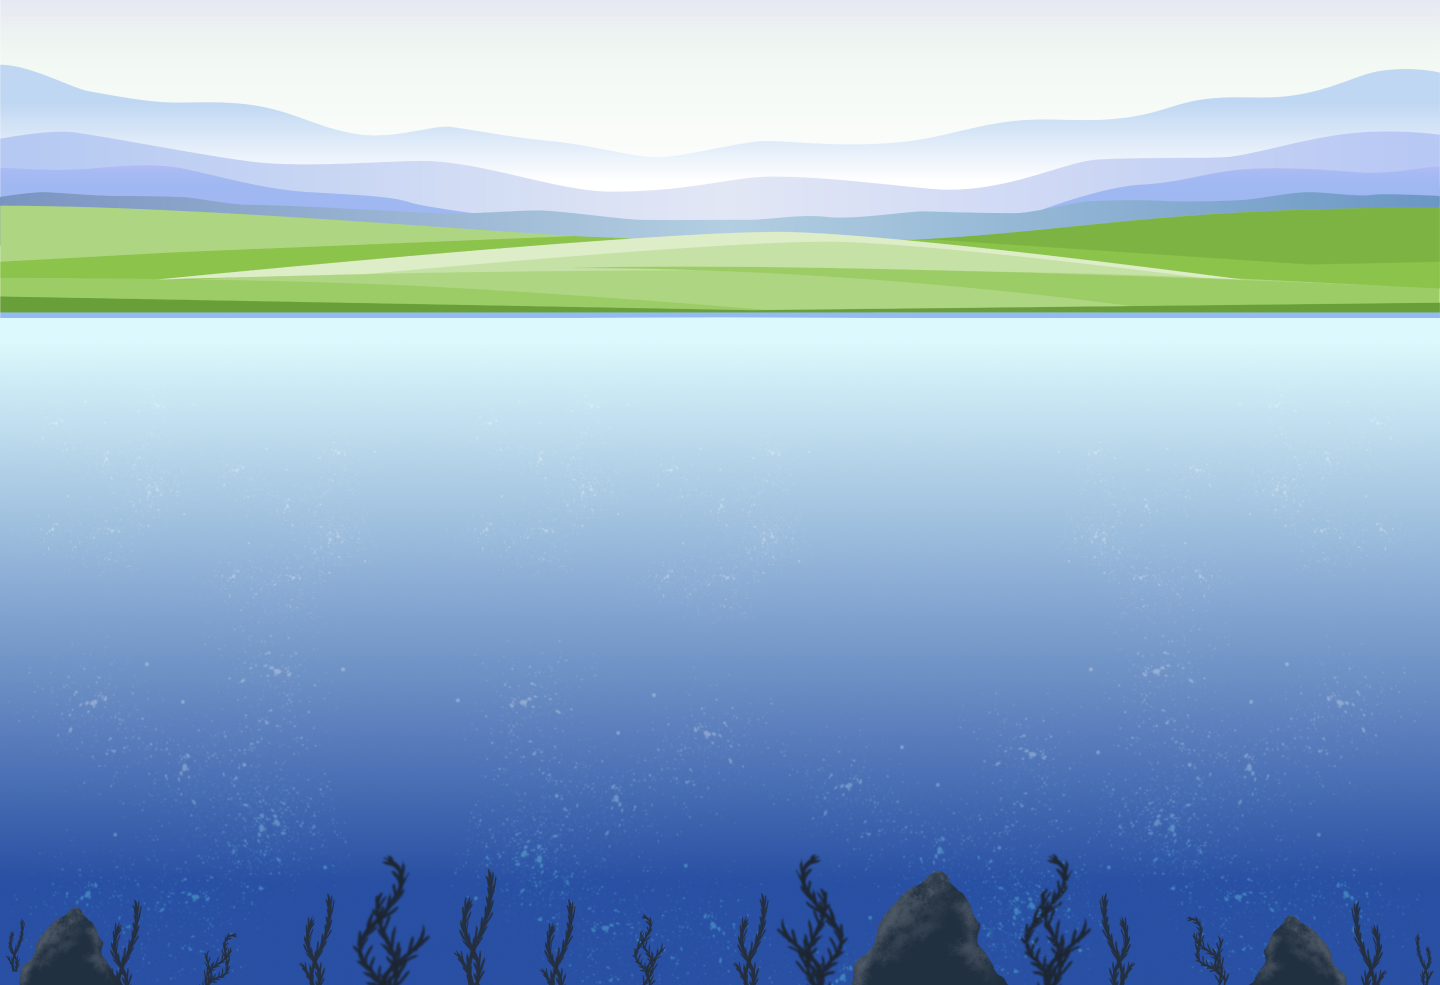
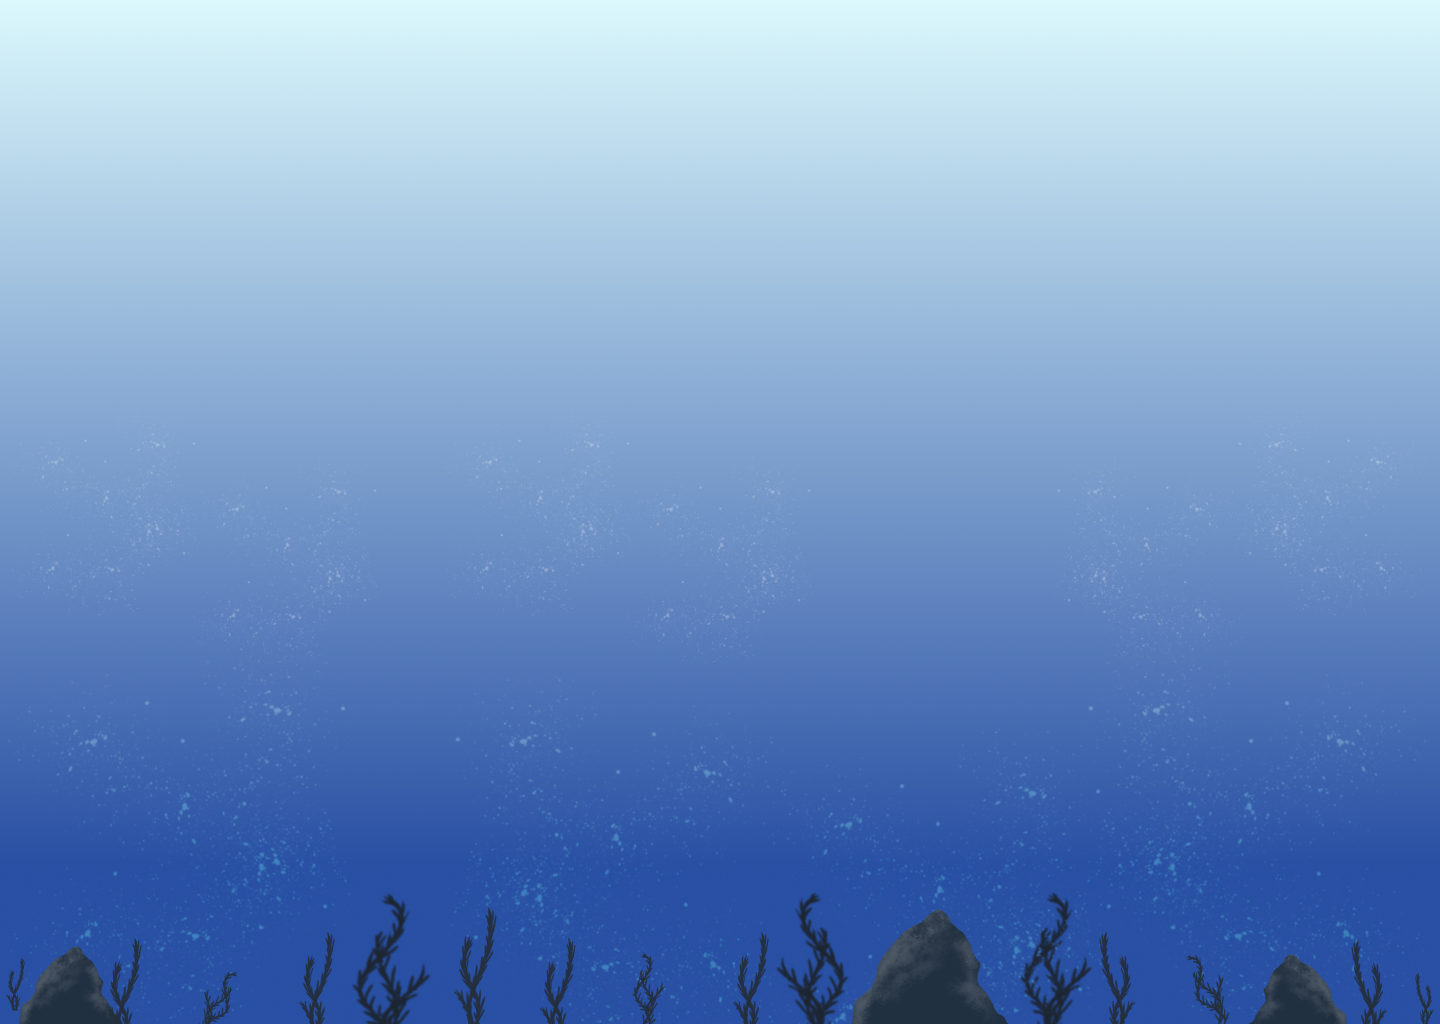
feat: optimized for ipad

diff --git a/src/Game.tsx b/src/Game.tsx
@@ -11,6 +11,7 @@ import CorrectOverlay from "./components/CorrectOverlay";
 import { useStore } from "./stores/store";
 import WrongOverlay from "./components/WrongOverlay";
 import GameOver from "./components/GameOver";
+import Navbar from "./components/Navbar";
 
 
 interface levelInfo {
@@ -109,14 +110,18 @@ const GameComponent: React.FC<GameComponentProps> = ({onSuccess, onError, levelI
   }
 
   const endGameOver = () => {
-    // TODO - go back to game page
-    alert("Go back to game page")
-
-    // resets game for now
+    // resets game for now - to delete
     setIsGameOver(false);
     setLives(3);
     setLevel(levelInfo.level);
     setGameLevel(getLevel(levelInfo.level));
+
+    // go back to home page
+    onBack();
+  }
+
+  const onBack = () => {
+    // TODO - for back button; go back to game page
   }
 
   // set level, set game level details, set target fish
@@ -133,13 +138,13 @@ const GameComponent: React.FC<GameComponentProps> = ({onSuccess, onError, levelI
   // render after page is loaded
   if(pageLoaded){
     return (
-        <div className="bg-[url('/mc_desktop_bg.png')] bg-cover bg-no-repeat flex flex-col w-full h-screen overflow-hidden gap-6">
+        <div className="bg-[url('/mc_desktop_bg.png')] bg-cover bg-no-repeat flex flex-col w-full h-screen overflow-hidden gap-6 lg:gap-12">
           {isGameOver && <GameOver message="GAME OVER..." imagePath="boy_sad.png" confettiAnimation={false} onClick={endGameOver}/>}
+          <Navbar text="Memory Catch" onBack={onBack}/>
           {isGameOver && level===HIGHEST_LEVEL && <GameOver imagePath="boy_happy.png" message="YOU COMPLETED ALL LEVELS!" confettiAnimation={true} onClick={endGameOver}/>}
           {isCorrect && <CorrectOverlay onEnd={endCorrectOverlay}/>}
           {isWrong && <WrongOverlay onEnd={endWrongOverlay}/>}
-          <p className="text-2xl lg:text-3xl text-center font-bold mt-10">Memory Catch</p>
-          <div className="text-center grid grid-cols-3 gap-5 px-5 text-white">
+          <div className="text-center grid grid-cols-3 gap-5 lg:gap-32 text-lg md:text-4xl px-5 lg:px-20 text-white">
             {!isGameOver && <LevelBox level={level}/>}
             {(!showFishBox && !isGameOver && !isCorrect && !isWrong) ? (
               <TimeBox duration={gameLevel.timeLimit} onEnd={endTimer} /> 

diff --git a/src/components/GameOver.tsx b/src/components/GameOver.tsx
@@ -29,22 +29,18 @@ export default function GameOver( props:GameOverProps ){
 
 
     return(
-        // <div className="h-screen w-screen items-center justify-center text-center mt-20">
-        <div className="overflow-hidden items-center justify-center text-center absolute z-40 flex flex-col p-5 bg-rose-100 rounded-xl shadow-xl w-3/4 h-1/2 left-1/2 top-1/2 transform -translate-x-1/2 -translate-y-1/2 md:h-3/4"> 
-            <div className="flex flex-col items-center justify-center text-center">
+        <div className="overflow-hidden items-center justify-center text-center absolute z-40 flex flex-col p-5 bg-gradient-to-b from-blue-300 to-blue-600 rounded-xl shadow-xl w-3/4 h-1/2 left-1/2 top-1/2 transform -translate-x-1/2 -translate-y-1/2 md:w-1/2"> 
+            <div className="flex flex-col items-center justify-center text-center text-blue-950 text-xl md:text-4xl">
                 {props.confettiAnimation && <div id="reward_lottie" className="absolute z-40 inset-0 w-full h-full scale-[1.4] pointer-events-none" />}
-                <h2 className="text-dark-pink font-bold text-2xl">{props.message}</h2>
-                <img src={props.imagePath || "boy_sad.png"} className="w-32 my-8"/>
-                <h2 className="text-dark-pink">click to continue</h2>
-                <button className="bg-rose-300 animate-pulse px-12 py-2 my-2 rounded-xl shadow-lg font-bold tracking-wider"
+                <h2 className="text-dark-pink font-bold">{props.message}</h2>
+                <img src={props.imagePath || "boy_sad.png"} className="w-32 my-8 md:w-44"/>
+                <h2 className="text-dark-pink text-blue-100 text-lg md:text-2xl">click to continue</h2>
+                <button className="bg-blue-200 animate-pulse px-12 py-2 md:py-4 my-2 rounded-2xl shadow-lg font-bold tracking-wider text-blue-950"
                     onClick={onClick}
                 >
                     Return
                 </button>
             </div>
-            
         </div>
-        // </div>
-    
     );
 }

diff --git a/src/components/GameLogic.ts b/src/components/GameLogic.ts
@@ -3,8 +3,10 @@
 import { GameLevels } from "../constants/GameLevel";
 import { fishList } from '../constants/FishImages';
 
-const HEIGHT_OFFSET = 350; // offset for calculating random position
+const HEIGHT_OFFSET = 450; // offset for calculating random position
 const WIDTH_OFFSET = 100; // offset for calculating random position
+const IMAGE_HEIGHT = 0;
+const IMAGE_WIDTH = 0;
 
 // get level details
 export function getLevel(level:number){
@@ -54,18 +56,18 @@ export function generateRandomFishList(fishNumber: number, correctFishName: stri
 
 // generate a random left position
 export function getRandomLeftPosition(maxWidth: number) {
-    let left = Math.floor(Math.random() * (maxWidth - WIDTH_OFFSET)); // Assuming the width of the image is 100px
+    let left = Math.floor(Math.random() * (maxWidth - IMAGE_WIDTH) - WIDTH_OFFSET);
     return left;
 };
 
 // generate a random top position
 export function getRandomTopPosition(maxHeight: number){
-    let top = Math.floor(Math.random() * (maxHeight - HEIGHT_OFFSET)); // Assuming the height of the image is 100px
+    let top = Math.floor(Math.random() * ((maxHeight - IMAGE_HEIGHT) - HEIGHT_OFFSET)); 
     return top;
 };
 
-// generate a random number between 0.3 to 0.8 to scale the fish
-export function getRandomScale() {
-    let scale = (Math.random() * 0.5) + 0.3;
+// generate a random number to scale the fish
+export function getRandomScale(minScale: number = 0.3, maxScale: number = 0.8) {
+    let scale = Math.random() * (maxScale - minScale) + minScale;
     return scale;
 }

diff --git a/src/components/FishPool.tsx b/src/components/FishPool.tsx
@@ -16,10 +16,20 @@ export default function FishPool( props: FishPoolProps ) {
         console.log(props.correctFishName);
         setRandomFishList(generateRandomFishList(props.fishNumber, props.correctFishName));
     }, [])
+
+    const handleRandomScale = () => {
+        // check if window is past md breakpoint or not
+        if(window.innerWidth >= 768){
+            return getRandomScale(0.7, 1.5);
+        }
+        else{
+            return getRandomScale();
+        }
+    }
     
     return (
         <div className="relative w-full h-screen mt-20">
-            {/* Render random fish */}
+            {/* Render random fishes */}
             {randomFishList.map((imageName, index) => (
                 <div key={index}>
                     <FishSilhouette 
@@ -27,7 +37,7 @@ export default function FishPool( props: FishPoolProps ) {
                         onClick={props.onWrong}
                         leftPosition={getRandomLeftPosition(window.innerWidth)}
                         topPosition={getRandomTopPosition(window.innerHeight)}
-                        scale={getRandomScale()}
+                        scale={handleRandomScale()}
                     />
                 </div>
             ))}

diff --git a/src/components/LivesBox.tsx b/src/components/LivesBox.tsx
@@ -7,22 +7,14 @@ interface LivesBoxProps {
 }
 
 export default function LivesBox( props: LivesBoxProps ) {
-    const [lives, setLives] = useState(props.lives);
-
-    const onEnd = () => {
-        props.onEnd && props.onEnd();
-    };
-
-
     return (
-        <div className="flex flex-row -space-x-1 items-center justify-right text-center bg-slate-500 bg-opacity-85 rounded-lg p-1">
+        <div className="grid grid-cols-3 gap-3 items-center justify-center text-center bg-blue-900 bg-opacity-70 rounded-lg md:rounded-xl p-2">
         {
             Array.from({ length: props.lives }, (_, index) => (
             <img
-                key={index} // Use the index as the key
+                key={index}
                 src={props.imageName} 
-                className="transform scale-75"
-                alt={`Life ${index + 1}`} // Optional: add an alt attribute for accessibility
+                className="w-8 md:w-14"
             />
             ))
         }

diff --git a/src/components/FishBox.tsx b/src/components/FishBox.tsx
@@ -23,8 +23,8 @@ export default function FishBox( props: FishBoxProps ) {
     useTimer({ duration: props.duration, onTimerEnd: onEnd, onTimerTick });
 
     return (
-        <div className="h-screen w-screen items-center justify-center text-center mt-20">
-            <div className="absolute flex flex-col m-auto left-0 right-0 p-10 bg-slate-500 bg-opacity-85 rounded-xl shadow-xl w-1/2 h-1/3">
+        <div className="h-screen w-screen items-center justify-center text-center mt-20 text-xl md:text-4xl">
+            <div className="absolute flex flex-col m-auto left-0 right-0 p-10 bg-blue-600 bg-opacity-100 rounded-xl md:rounded-3xl shadow-xl w-3/5 h-1/3">
                 <p className="text-white tracking-wide">{props.message}</p>
                 <img src={`/fish_colored/${props.imageName}`} className="max-w-full m-auto md:h-52 m-auto"/>
                 <p className="text-white">{timerValue}</p>

diff --git a/src/components/TimeBox.tsx b/src/components/TimeBox.tsx
@@ -20,8 +20,8 @@ export default function TimeBox( props: TimeBoxProps ) {
     useTimer({ duration: props.duration, onTimerEnd: onEnd, onTimerTick });
 
     return (
-        <div className="flex flex-row -space-x-1 items-center justify-center text-center bg-slate-500 bg-opacity-85 rounded-lg p-2 gap-5">
-            <img src="timer.png" className="w-5" />
+        <div className="grid grid-cols-2 justify-center items-center bg-blue-900 bg-opacity-70 rounded-lg gap-1 md:rounded-xl p-2 md:p-5">
+            <img src="timer.png" className="w-6 md:w-10 mx-3" />
             <div>{timerValue}</div>
         </div>
     );

diff --git a/src/components/LevelBox.tsx b/src/components/LevelBox.tsx
@@ -1,13 +1,10 @@
-import { useState } from 'react';
-
 interface LevelBoxProps {
     level: number; // current level to display
 }
 
 export default function LevelBox( props: LevelBoxProps ) {
-
     return (
-        <div className="flex flex-row -space-x-1 items-center justify-center text-center bg-slate-500 bg-opacity-85 rounded-lg p-2">
+        <div className="flex flex-row -space-x-1 items-center justify-center text-center bg-blue-900 bg-opacity-70 rounded-lg md:rounded-xl p-2 md:p-5">
             Level {props.level}
         </div>
     );

diff --git a/src/components/Navbar.tsx b/src/components/Navbar.tsx
@@ -1,0 +1,15 @@
+
+interface NavbarProps{
+    text?: string;
+    onBack?: () => void;
+}
+
+export default function Navbar(props: NavbarProps){
+    return(
+        <div className="flex flex-row w-full bg-blue-600 justify-between text-center text-white text-2xl md:text-5xl font-semibold tracking-wider p-3 md:p-6">
+            <img src="back.png" className="w-5 h-7 md:w-10 md:h-12"/>
+            <p>{props.text}</p>
+            <div/>
+        </div>
+    );
+}

diff --git a/src/constants/GameLevel.ts b/src/constants/GameLevel.ts
@@ -4,7 +4,7 @@ displayTime = time to show targetted fish (fish box)
 timeLimit = time given to locate the targetted fish
 */
 
-// TODO - add lives and rounds variation as well.
+// TODO - possibly add lives and rounds variation as well.
 
 export const level1 = 
 {
